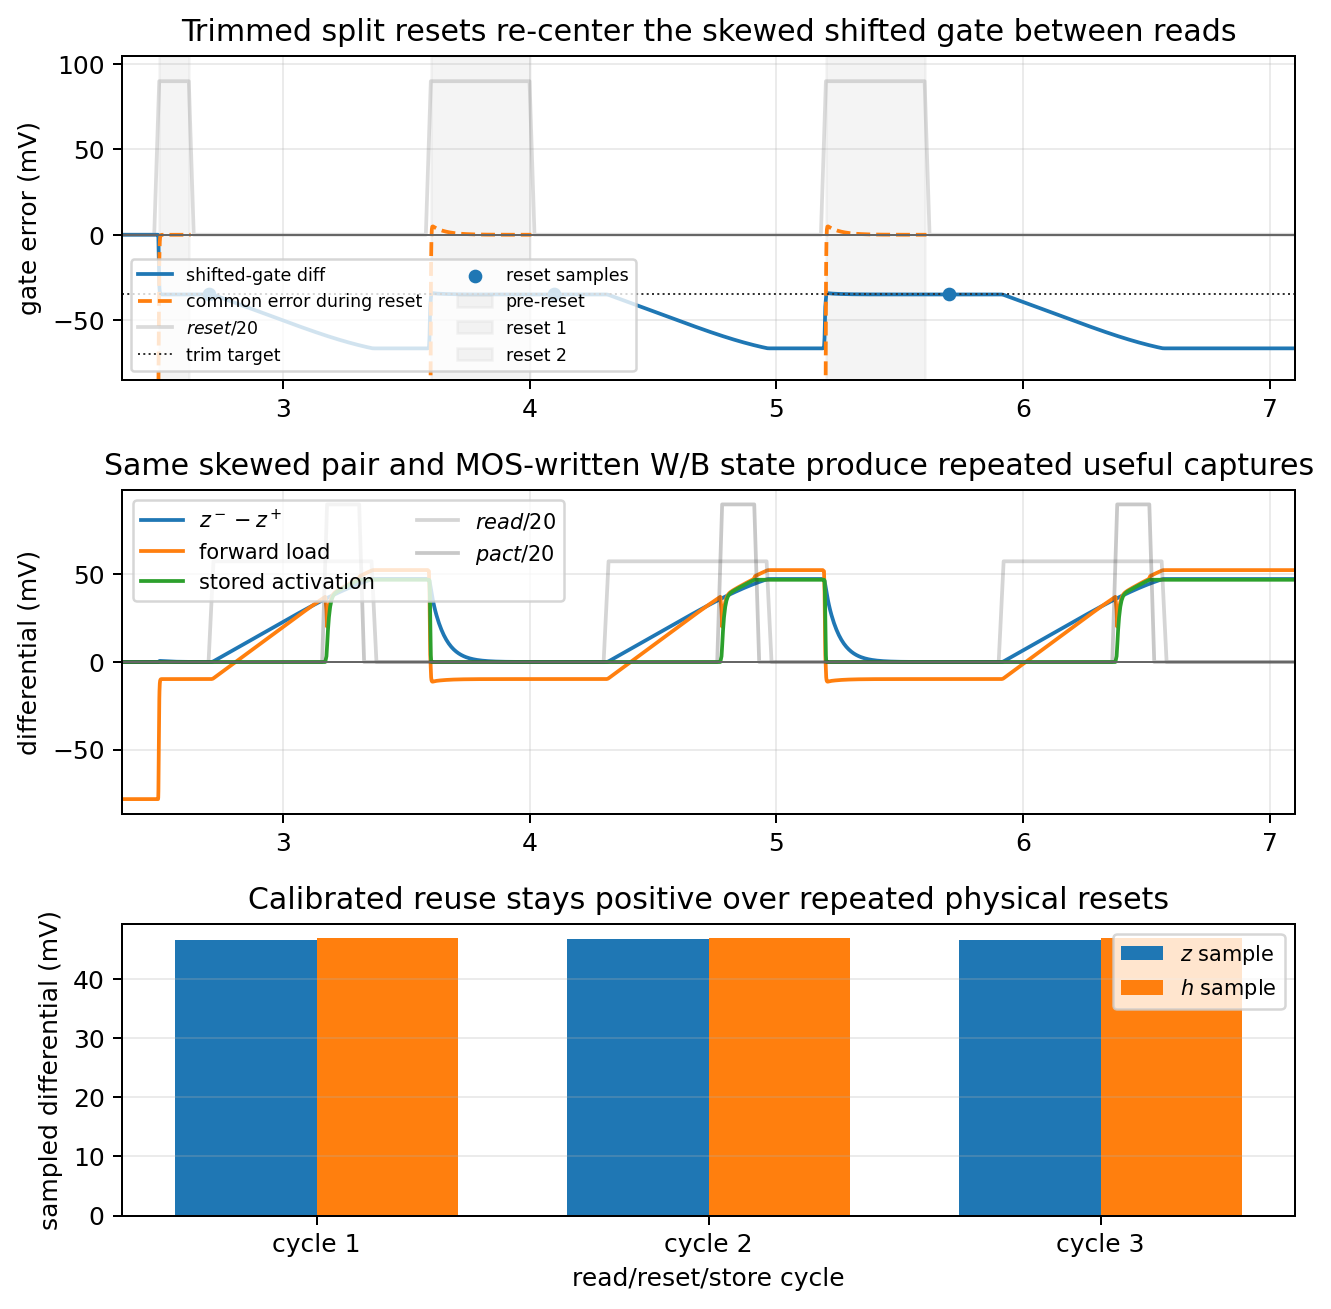
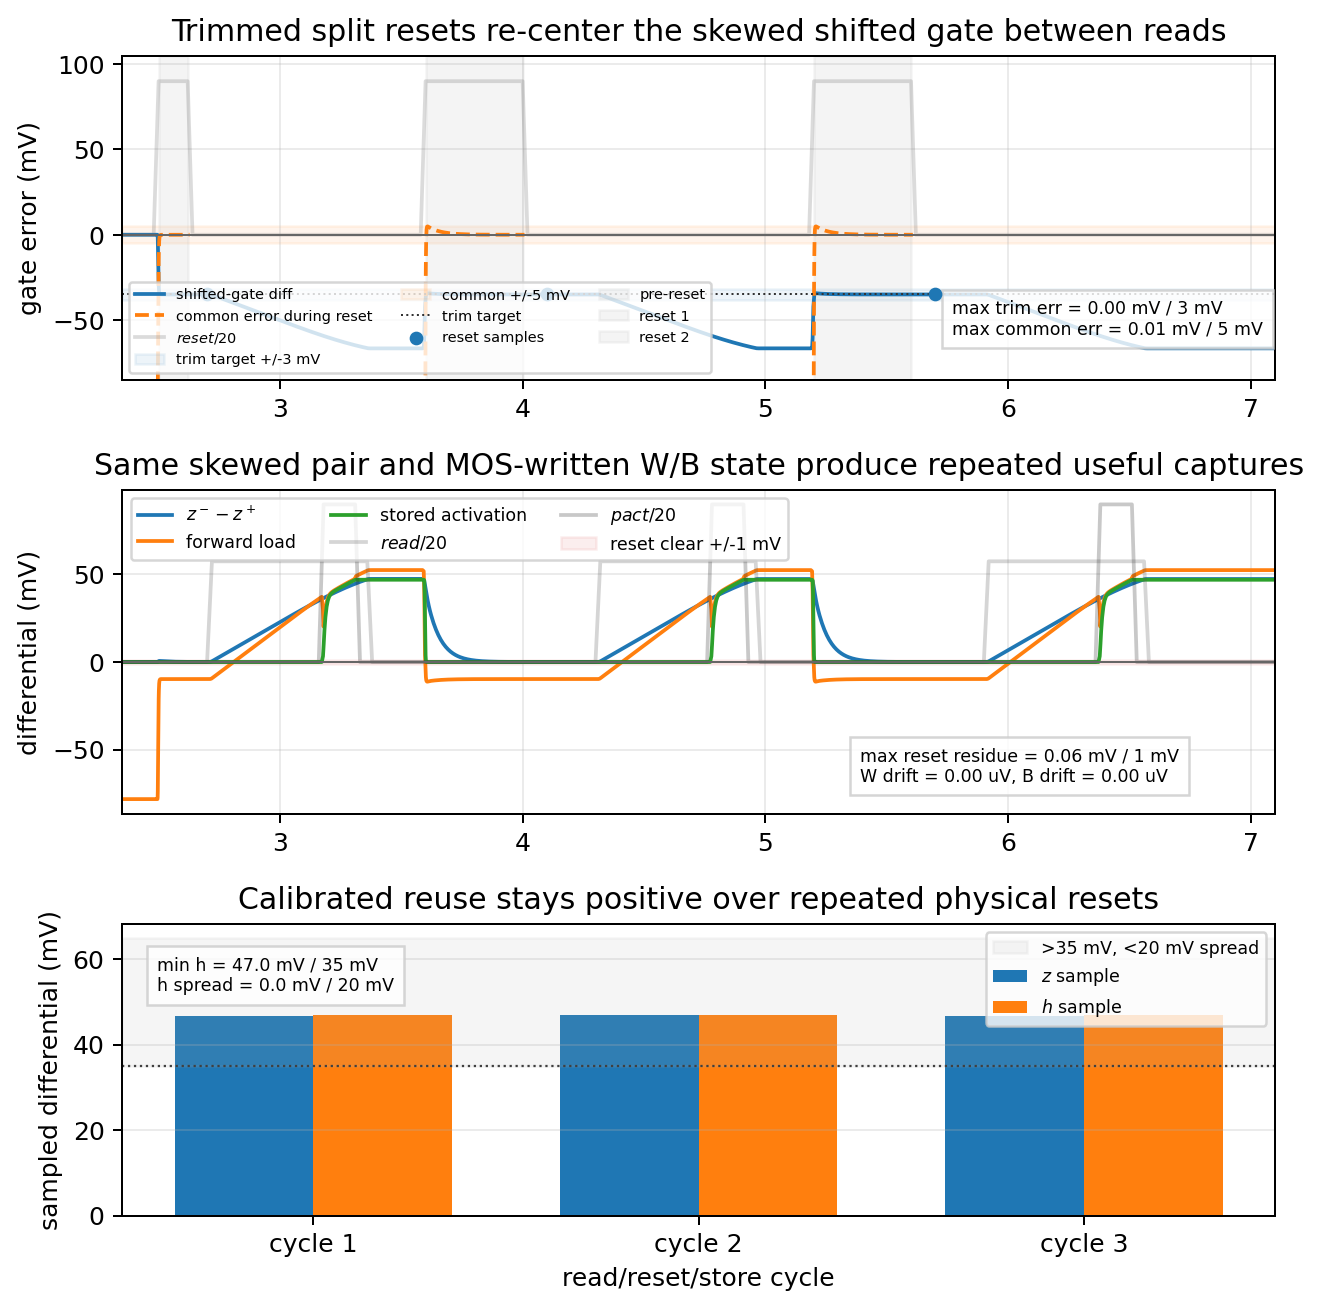
Annotate shifted gate trimmed reuse margins

diff --git a/spice/run_mos_cell_characterization.py b/spice/run_mos_cell_characterization.py
@@ -13990,6 +13990,20 @@ quit
         alpha=0.25,
         label="$reset/20$",
     )
+    shift_trimmed_reuse_axes[0].axhspan(
+        -38.0,
+        -32.0,
+        color="tab:blue",
+        alpha=0.08,
+        label="trim target +/-3 mV",
+    )
+    shift_trimmed_reuse_axes[0].axhspan(
+        -5.0,
+        5.0,
+        color="tab:orange",
+        alpha=0.08,
+        label="common +/-5 mV",
+    )
     shift_trimmed_reuse_axes[0].axhline(-35.0, color="0.2", linewidth=0.8, linestyle=":", label="trim target")
     shift_trimmed_reuse_axes[0].scatter(
         1e6 * shift_trimmed_reuse_reset_times,
@@ -14007,7 +14021,18 @@ quit
     shift_trimmed_reuse_axes[0].set_ylabel("gate error (mV)")
     shift_trimmed_reuse_axes[0].set_title("Trimmed split resets re-center the skewed shifted gate between reads")
     shift_trimmed_reuse_axes[0].grid(True, alpha=0.25)
-    shift_trimmed_reuse_axes[0].legend(loc="lower left", ncol=2, fontsize="x-small")
+    shift_trimmed_reuse_axes[0].text(
+        0.72,
+        0.14,
+        "max trim err = "
+        f"{1e3 * np.max(np.abs(shift_trimmed_reuse_gate_reset_diff + 0.035)):.2f} mV / 3 mV\n"
+        "max common err = "
+        f"{1e3 * np.max(np.abs(shift_trimmed_reuse_gate_reset_common - 0.90)):.2f} mV / 5 mV",
+        transform=shift_trimmed_reuse_axes[0].transAxes,
+        fontsize="x-small",
+        bbox={"facecolor": "white", "alpha": 0.82, "edgecolor": "0.8"},
+    )
+    shift_trimmed_reuse_axes[0].legend(loc="lower left", ncol=3, fontsize="xx-small")
     shift_trimmed_reuse_axes[1].plot(1e6 * strpt, 1e3 * shift_trimmed_reuse_preact, label="$z^- - z^+$")
     shift_trimmed_reuse_axes[1].plot(1e6 * strpt, 1e3 * shift_trimmed_reuse_load, label="forward load")
     shift_trimmed_reuse_axes[1].plot(1e6 * strpt, 1e3 * shift_trimmed_reuse_store, label="stored activation")
@@ -14025,12 +14050,24 @@ quit
         alpha=0.25,
         label="$pact/20$",
     )
+    shift_trimmed_reuse_axes[1].axhspan(-1.0, 1.0, color="tab:red", alpha=0.08, label="reset clear +/-1 mV")
     shift_trimmed_reuse_axes[1].axhline(0, color="0.4", linewidth=0.8)
     shift_trimmed_reuse_axes[1].set_xlim(2.35, 7.1)
     shift_trimmed_reuse_axes[1].set_ylabel("differential (mV)")
     shift_trimmed_reuse_axes[1].set_title("Same skewed pair and MOS-written W/B state produce repeated useful captures")
     shift_trimmed_reuse_axes[1].grid(True, alpha=0.25)
-    shift_trimmed_reuse_axes[1].legend(loc="upper left", ncol=2, fontsize="small")
+    shift_trimmed_reuse_axes[1].text(
+        0.64,
+        0.10,
+        "max reset residue = "
+        f"{1e3 * max(np.max(shift_trimmed_reuse_z_reset), np.max(shift_trimmed_reuse_h_reset)):.2f} mV / 1 mV\n"
+        f"W drift = {1e6 * shift_trimmed_reuse_weight_drift:.2f} uV, "
+        f"B drift = {1e6 * shift_trimmed_reuse_bias_drift:.2f} uV",
+        transform=shift_trimmed_reuse_axes[1].transAxes,
+        fontsize="x-small",
+        bbox={"facecolor": "white", "alpha": 0.82, "edgecolor": "0.8"},
+    )
+    shift_trimmed_reuse_axes[1].legend(loc="upper left", ncol=3, fontsize="x-small")
     shift_trimmed_reuse_x = np.arange(len(shift_trimmed_reuse_h_samples))
     shift_trimmed_reuse_axes[2].bar(
         shift_trimmed_reuse_x - 0.18,
@@ -14044,14 +14081,25 @@ quit
         width=0.36,
         label="$h$ sample",
     )
+    shift_trimmed_reuse_axes[2].axhspan(35.0, 65.0, color="0.7", alpha=0.12, label=">35 mV, <20 mV spread")
     shift_trimmed_reuse_axes[2].axhline(0, color="0.4", linewidth=0.8)
+    shift_trimmed_reuse_axes[2].axhline(35.0, color="0.25", linestyle=":", linewidth=0.9)
     shift_trimmed_reuse_axes[2].set_xticks(shift_trimmed_reuse_x)
     shift_trimmed_reuse_axes[2].set_xticklabels(["cycle 1", "cycle 2", "cycle 3"])
     shift_trimmed_reuse_axes[2].set_xlabel("read/reset/store cycle")
     shift_trimmed_reuse_axes[2].set_ylabel("sampled differential (mV)")
     shift_trimmed_reuse_axes[2].set_title("Calibrated reuse stays positive over repeated physical resets")
     shift_trimmed_reuse_axes[2].grid(True, axis="y", alpha=0.25)
-    shift_trimmed_reuse_axes[2].legend(loc="upper right", fontsize="small")
+    shift_trimmed_reuse_axes[2].text(
+        0.03,
+        0.77,
+        f"min h = {1e3 * np.min(shift_trimmed_reuse_h_samples):.1f} mV / 35 mV\n"
+        f"h spread = {1e3 * (np.max(shift_trimmed_reuse_h_samples) - np.min(shift_trimmed_reuse_h_samples)):.1f} mV / 20 mV",
+        transform=shift_trimmed_reuse_axes[2].transAxes,
+        fontsize="x-small",
+        bbox={"facecolor": "white", "alpha": 0.82, "edgecolor": "0.8"},
+    )
+    shift_trimmed_reuse_axes[2].legend(loc="upper right", fontsize="x-small")
     shift_trimmed_reuse_fig.tight_layout()
     save_plot(
         shift_trimmed_reuse_fig,

diff --git a/engineering_log.md b/engineering_log.md
@@ -2,6 +2,17 @@
 
 ## 2026-05-25
 
+- Clarified the calibrated shifted-gate trimmed-reuse plot.  The ngspice deck
+  already asserted that each physical split reset re-establishes the
+  \(-35\) mV trim within \(3\) mV, preserves common mode within \(5\) mV,
+  clears \(z/h\) residuals below \(1\) mV, keeps all three stored activations
+  above \(35\) mV, and holds the cycle spread below \(20\) mV without
+  disturbing the MOS-written weight/bias caps.  The regenerated
+  `mos_hidden_writer_restored_gate_hybrid_update_forward_guard_forward_pair_96u_shifted_gate_trimmed_reuse_ngspice`
+  plot now draws those budget bands and labels the measured margins
+  directly: max trim error \(0.00\) mV, max common error \(0.01\) mV, max
+  reset residue \(0.06\) mV, minimum stored activation \(47.0\) mV, and
+  displayed cycle spread \(0.0\) mV.
 - Clarified the shifted-gate off-isolation stress plot.  The ngspice assertion
   permits up to \(1000\,\mu\)V stored-activation drift after pact-only,
   guard-only, and read stress pulses, while the measured maximum drift is only
